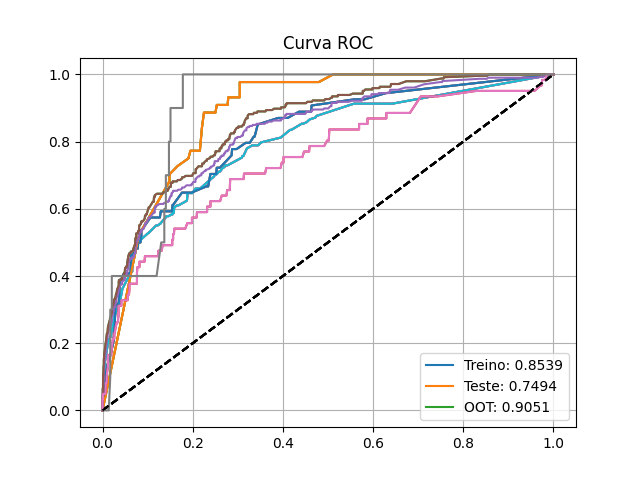
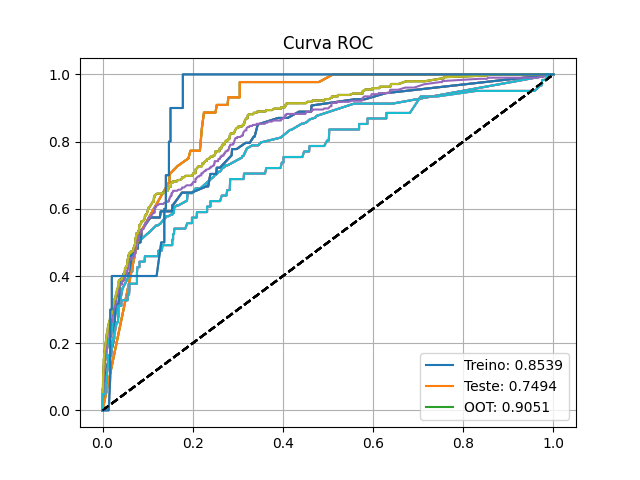
Quem é o inimigo?

diff --git a/src/analytics/predict-fiel.py b/src/analytics/predict-fiel.py
@@ -14,7 +14,7 @@ data = pd.read_sql("SELECT * FROM fs_all", con)
 print(f"Dados carregados: {data.shape}")
 
 # Tudo em 3 linhas:
-data['predictFiel'] = model.predict_proba(data[model.feature_names_in_])[:, 1]
+data['predictFiel'] = model.predict_proba(data[model.feature_names_in_])[:, 3]
 data_output = data[['dtRef', 'IdCliente', 'predictFiel']]
     
 #%%

diff --git a/src/analytics/train.py b/src/analytics/train.py
@@ -44,7 +44,8 @@ df_oot
 # SAMPLE - Teste e Treino
 
 target = 'flFiel'
-features = df.columns.tolist()[3:]
+f = ['dtRef', 'IdCliente', 'flFiel']
+features = [c for c in df.columns if c not in f]
 
 df_train_test = df[df['dtRef'] <= "2025-12-31" ].reset_index(drop=True)
 
